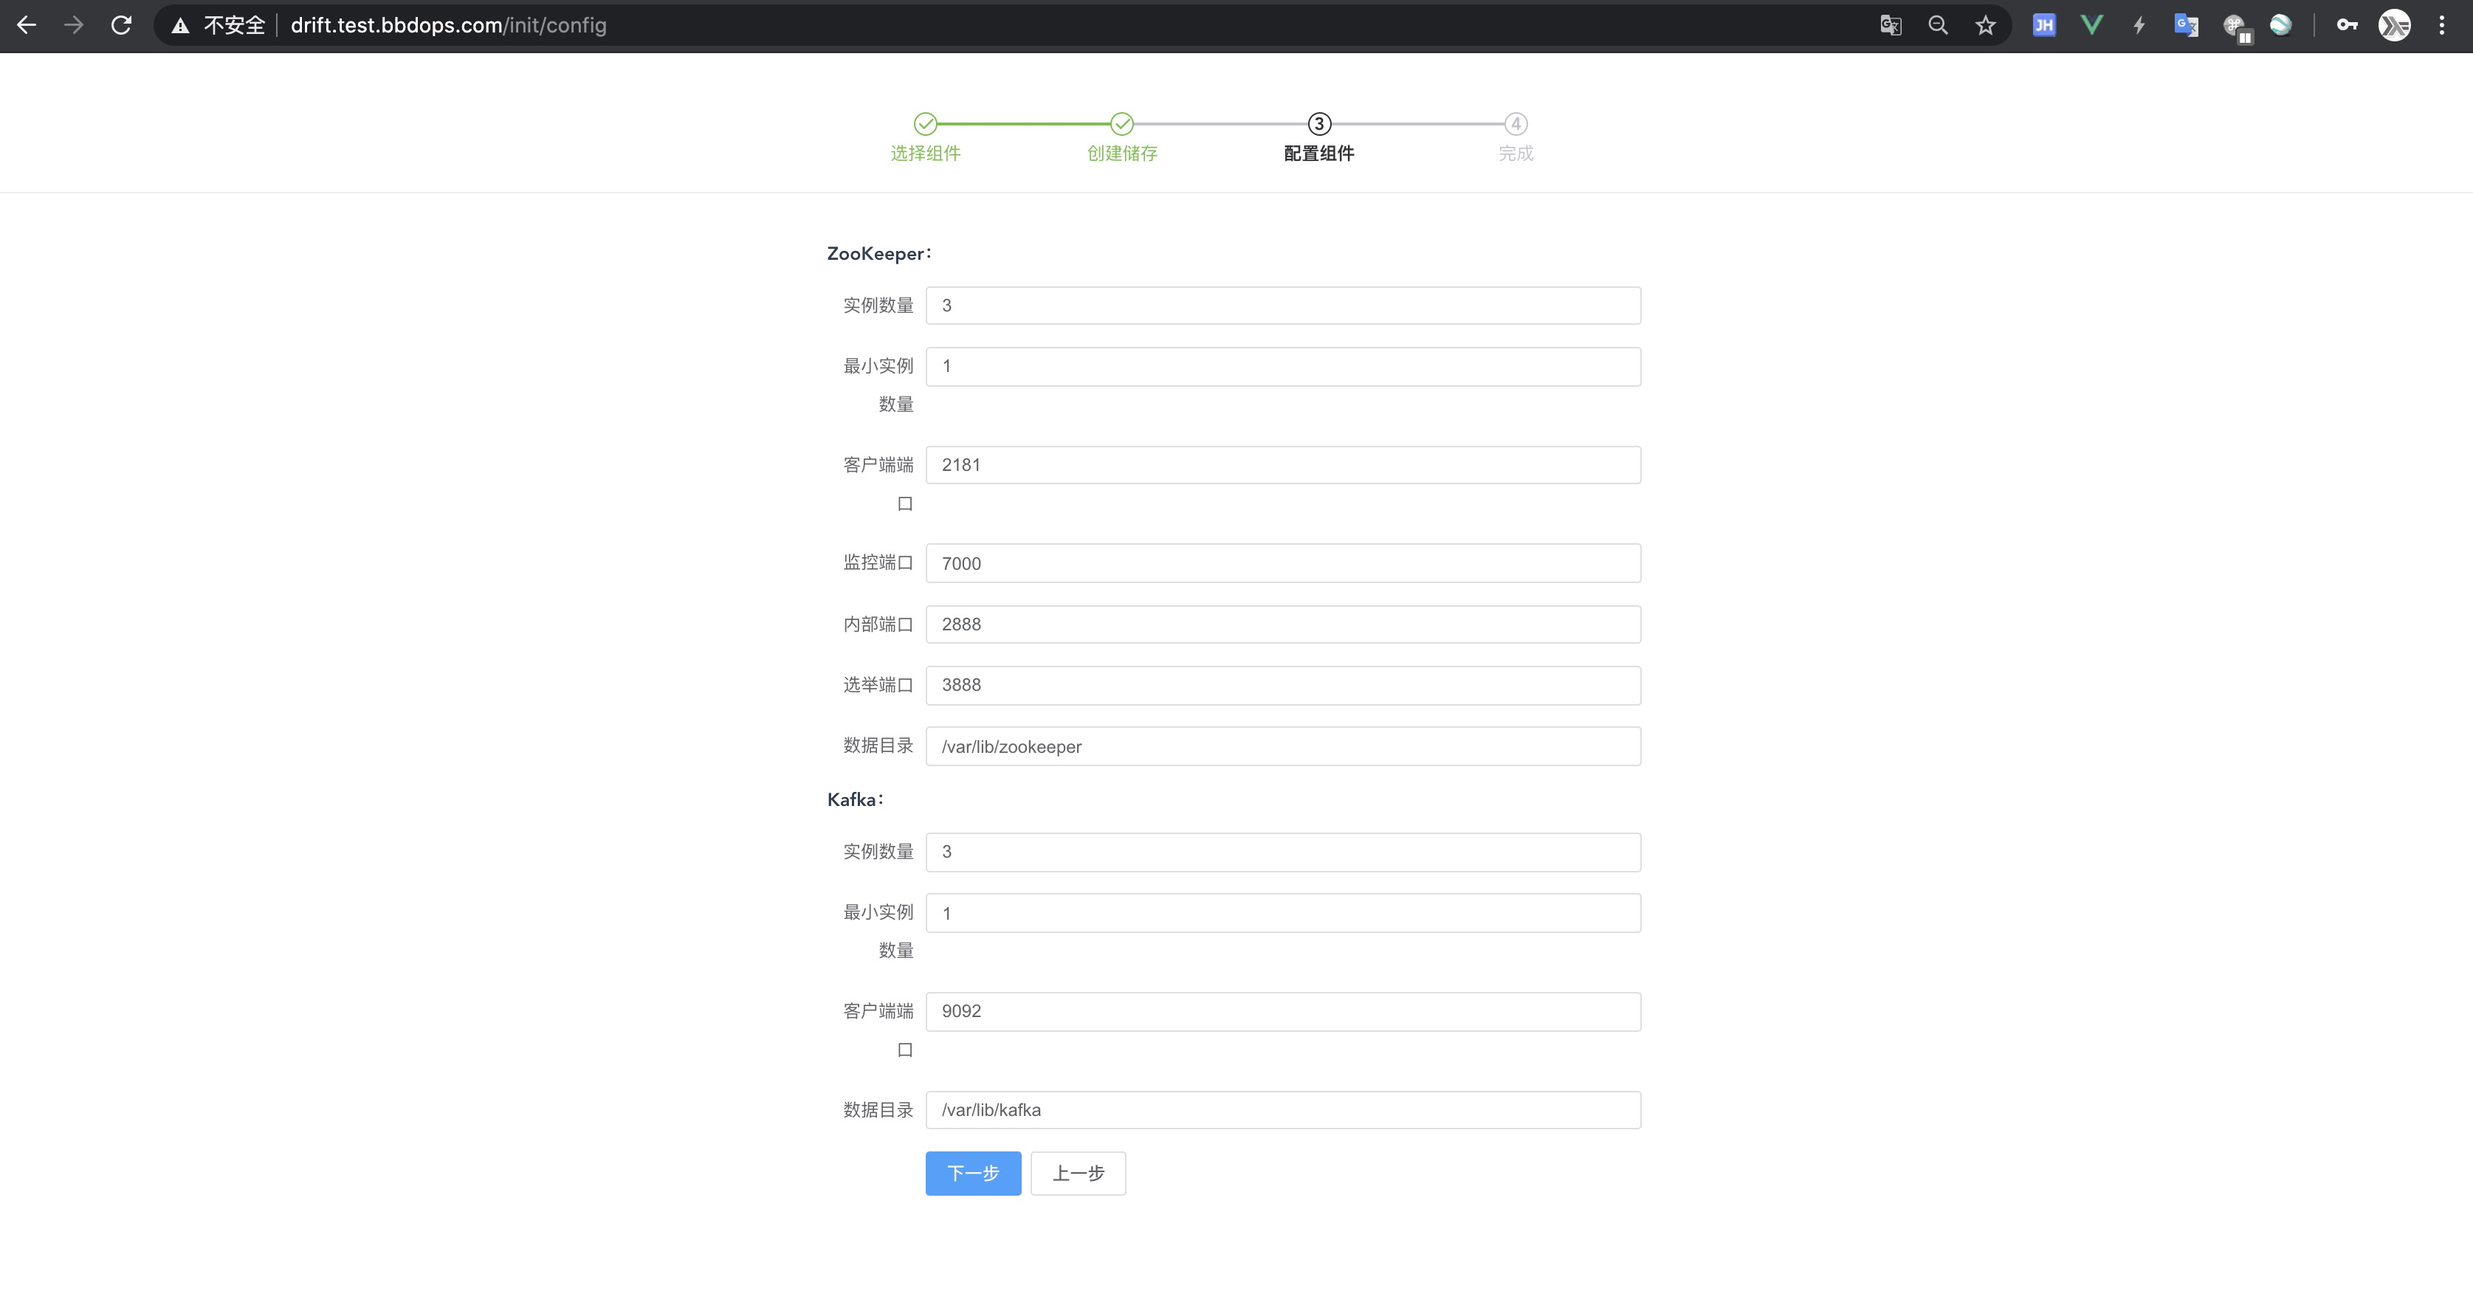
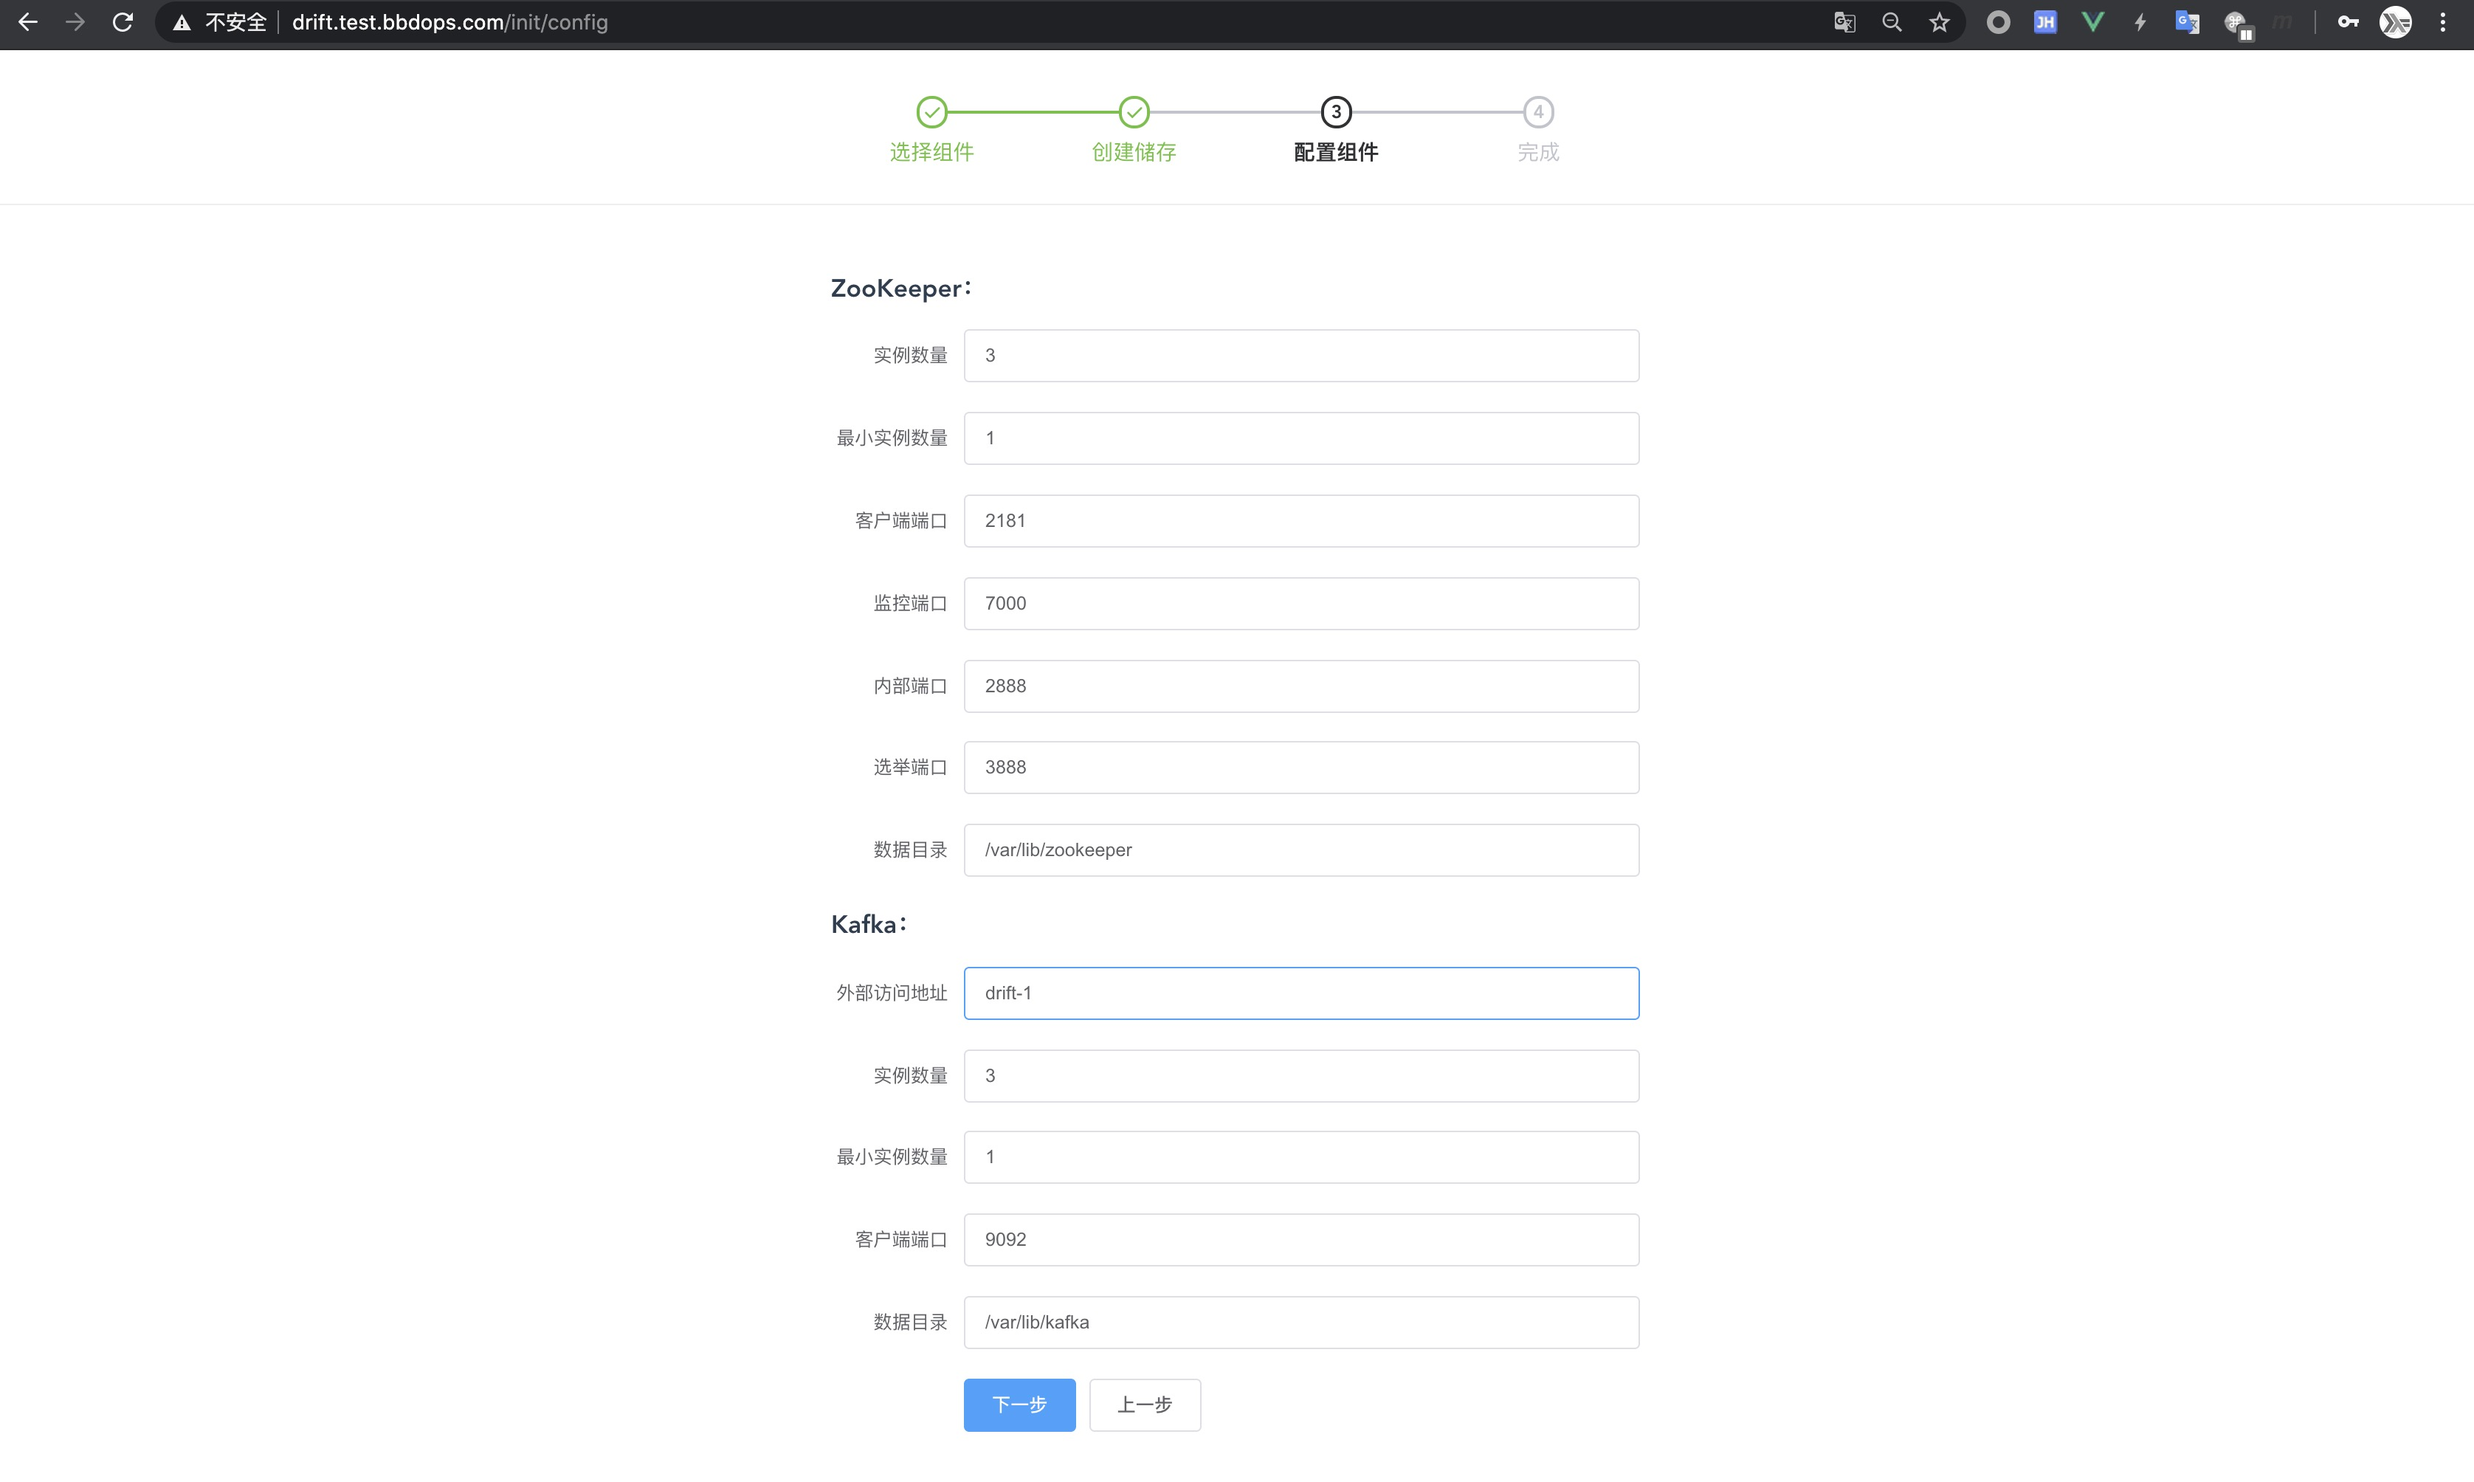
readme

diff --git a/README.md b/README.md
@@ -7,6 +7,8 @@
 > 可以通过界面部署和管理大数据组件
 >
 > 支持持久化储存
+>
+> 支持外部访问
 
 ## 支持的组件
 
@@ -59,7 +61,7 @@ kubectl get pods -n drift --watch
 
 ![pvc](./images/pvc.png)
 
-第七步，配置组件，默认即可：
+第七步，配置组件，Kafka 的外部访问地址需要填写，可以填写宿主机主机名，我这里主机名为 drift-1：
 
 ![config](./images/config.png)
 
@@ -76,6 +78,8 @@ kubectl get pods -n drift --watch
 kubectl get pods -n bigdata --watch
 ```
 
+由于 Kafka 依赖 ZooKeeper ，所以 Kafka 会自动重启几次。
+
 创建完成如下图所示：
 
 ![pods](./images/pods.png)
@@ -84,9 +88,17 @@ kubectl get pods -n bigdata --watch
 
 ![view-pods](./images/view-pods.png)
 
-## 测试
+## 内部测试
 
-注意，kafka 在 ZooKeeper 中使用的路径不是默认的 / ，而是 /kafka， kafka 测试：
+在 k8s 集群内部测试 ZooKeeper 集群和 Kafka 集群，先来测试 ZooKeeper：
+
+```bash
+kubectl -n bigdata exec -i  -t zookeeper-cluster-0 -- bash
+zkServer.sh status
+zkCli.sh
+```
+
+测试Kafka，注意，kafka 在 ZooKeeper 中使用的路径不是默认的 / ，而是 /kafka ：
 
 ```bash
 kubectl -n bigdata exec -i  -t kafka-cluster-0 -- bash
@@ -106,6 +118,34 @@ kafka-console-consumer.sh --bootstrap-server kafka-cluster-0.kafka-cluster-headl
 ```
 
 在生产者的命令行里随便几条数据，会在消费者的命令行里看到数据打印
+
+## 外部测试
+
+在集群外部，可以使用 Java 或其他语言的库进行连接，为了方便，可以下载官方的二进制包，使用其中的客户端工具进行测试。
+
+外部测试 ZooKeeper，端口映射：
+```bash
+kubectl port-forward zookeeper-cluster-0 -n bigdata 32181:2181 --address 0.0.0.0
+```
+
+测试 ZooKeeper：
+```bash
+zkCli.sh -server drift-1:32181
+```
+
+在外部连接 Kafka 需要专门设置，在上面已经设置了外部可访问的地址，可以查看 Kafka 对外开放的 service：
+```bash
+kubectl get svc -n bigdata 
+```
+这里为每一个 Kafka 的 Pod 都绑定了一个一一对应的 Service。
+
+测试外部连接Kafka：
+```bash
+kafka-console-producer.sh --bootstrap-server drift-1:31090,drift-1:31091,drift-1:31092 --topic one
+kafka-console-consumer.sh --bootstrap-server drift-1:31090,drift-1:31091,drift-1:31092 --topic one --from-beginning
+```
+
+![kafka](./images/kafka.png)
 
 ## 使用的镜像
 
